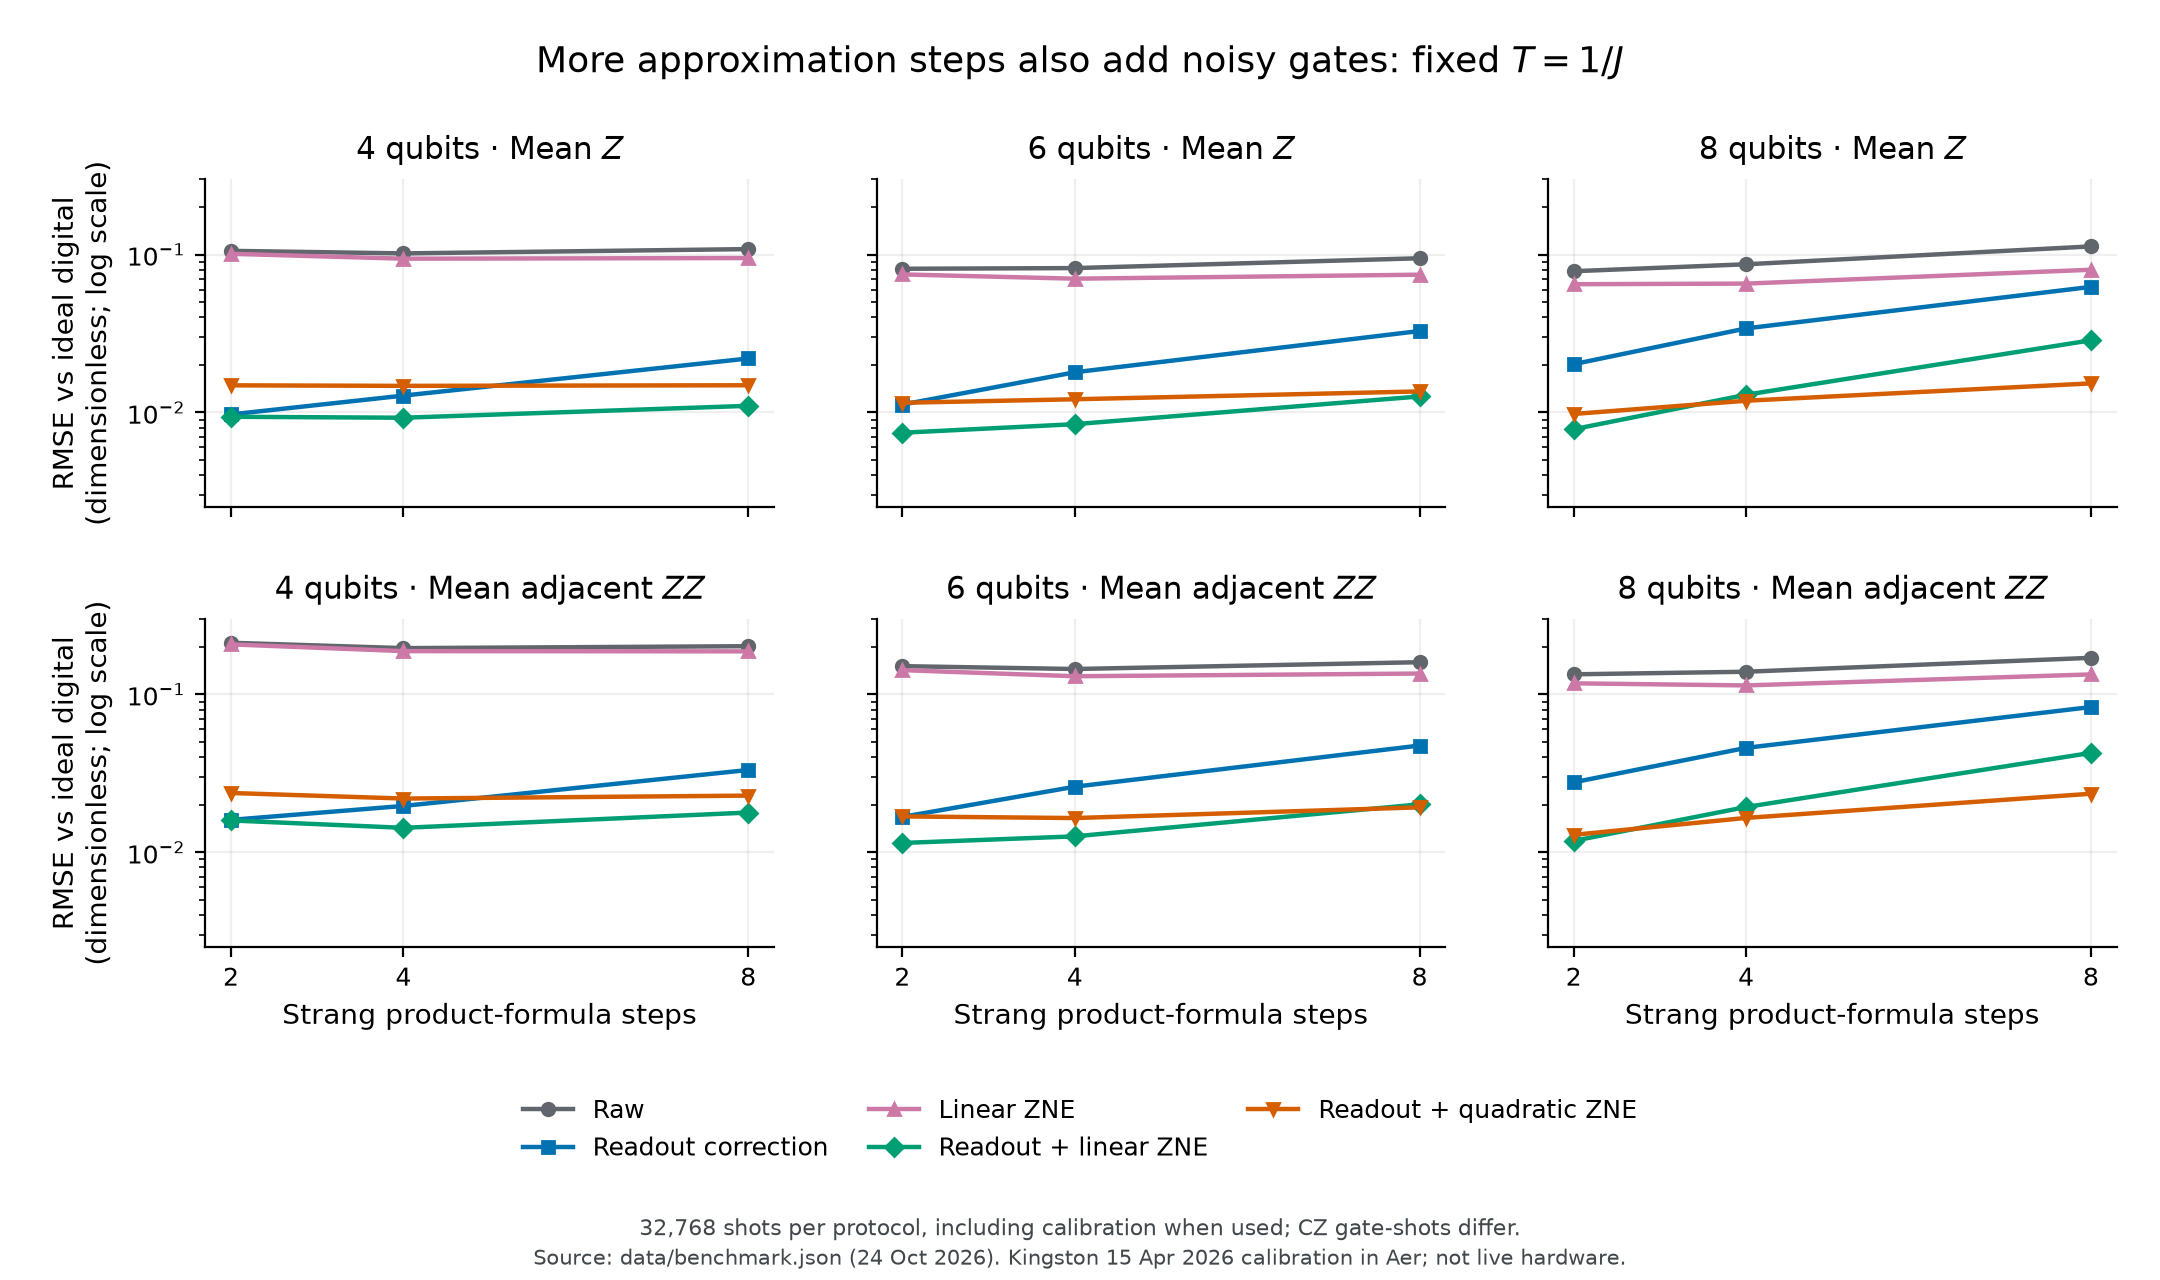
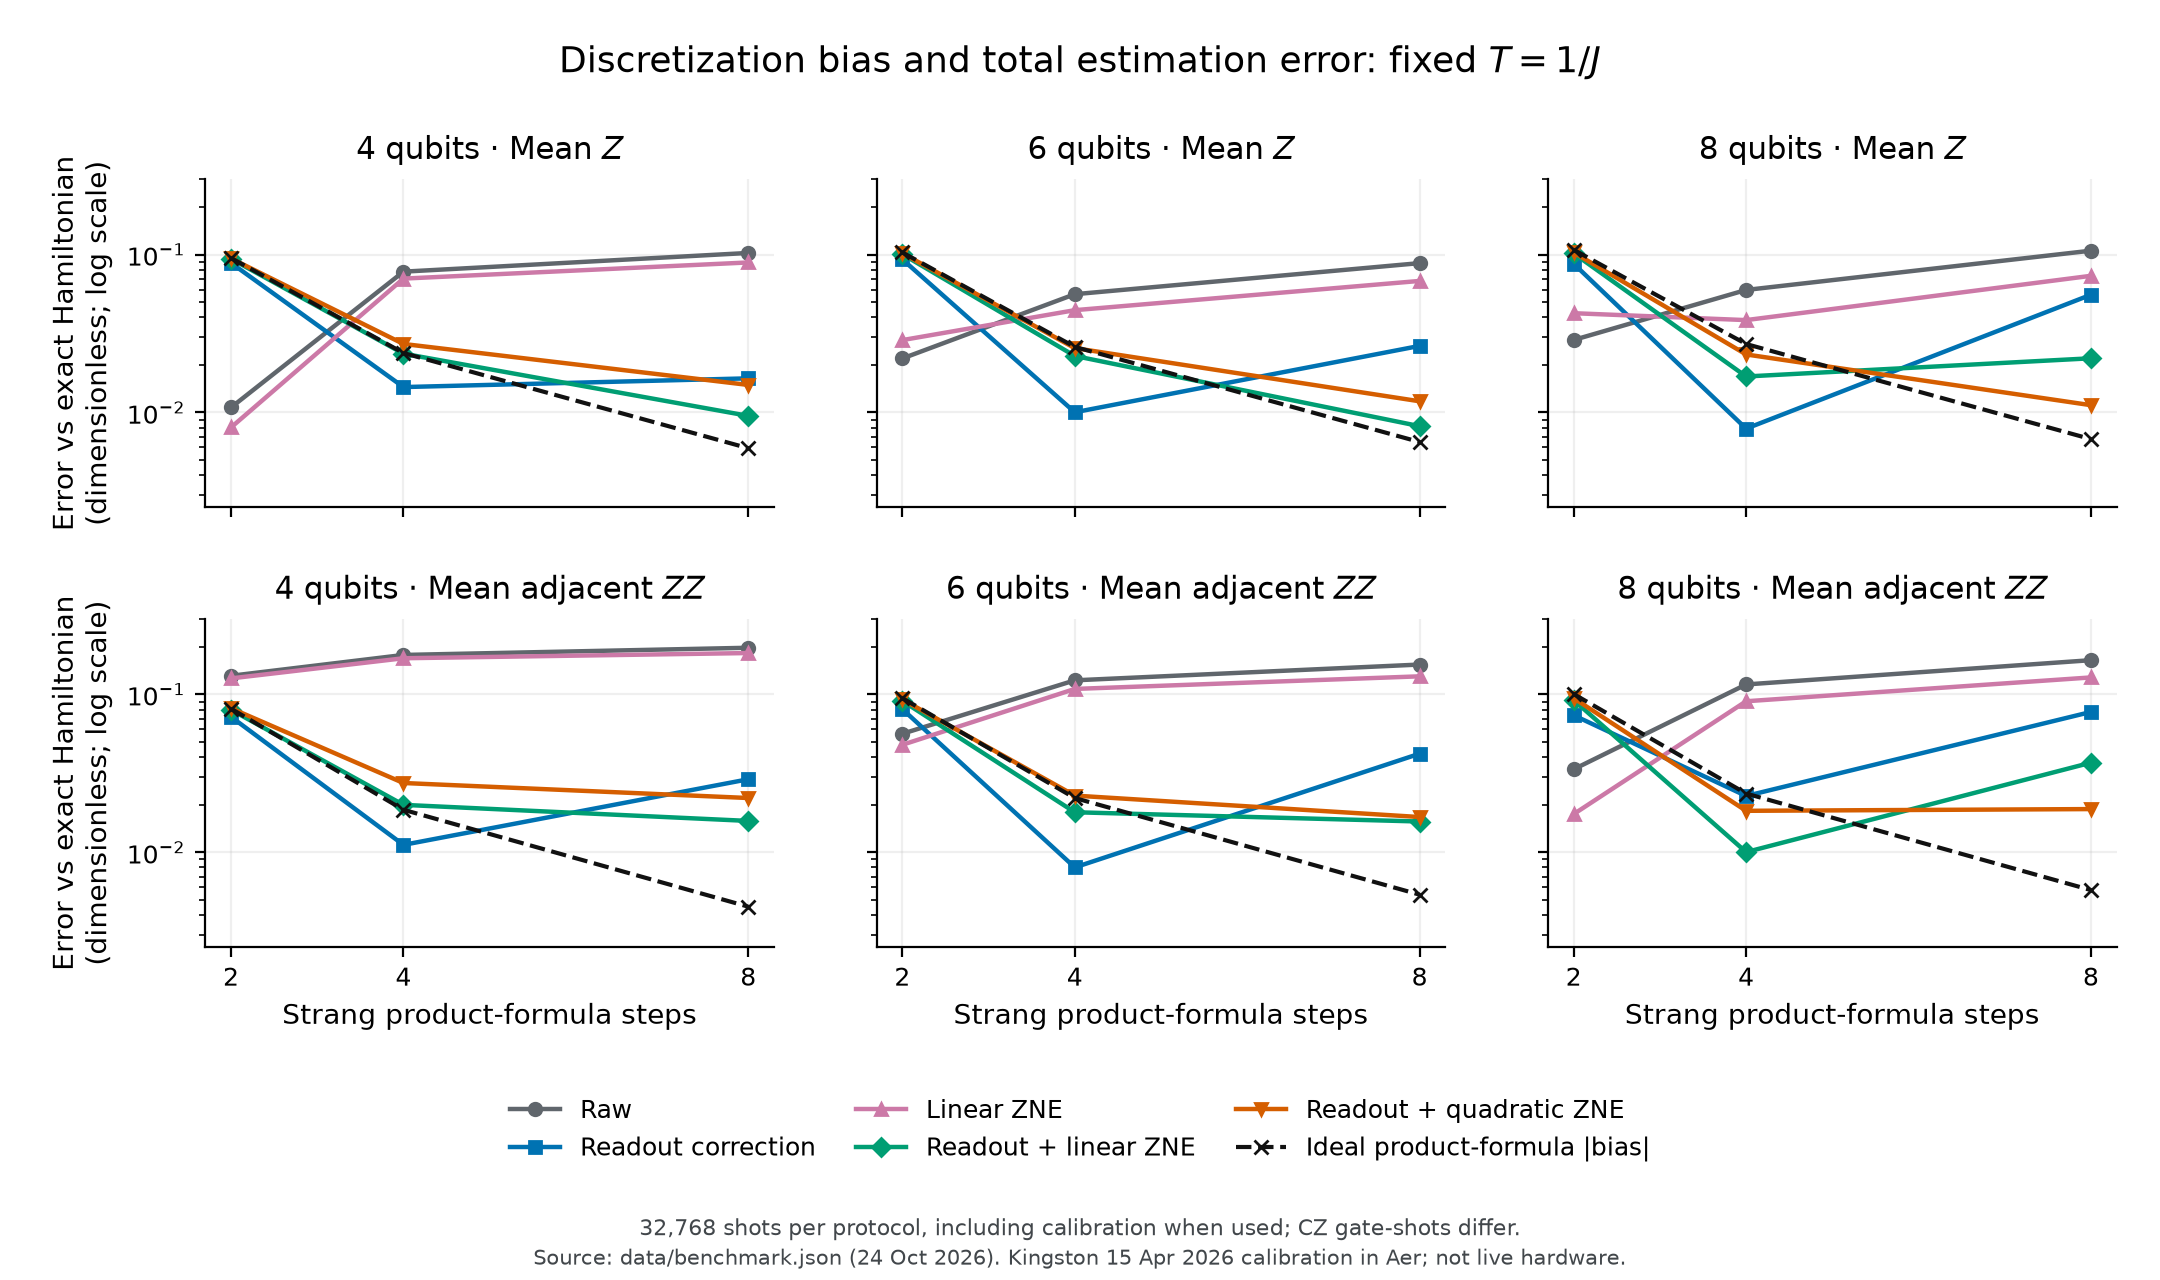
Make the approximation and noise tradeoff visible before review
Use the saved Hamiltonian-target errors and product-formula bias in the depth
figure. Link the supporting figures from the note and clarify the discussion
question. Preserve the existing repository README verbatim while adding a
short scope note, and update stale access wording.

Constraint: No new experiments or numerical-result changes; existing README content retained
Confidence: high
Scope-risk: narrow
Tested: All 36 plotted series match saved data; nine data-file hashes unchanged; three-page PDF inspected; both figure links present
Tested: ZIP checksum validation and repository-payload agreement; git diff --check
Not-tested: Numerical test suites not rerun for presentation-only changes

diff --git a/noisy_qubit_numerics/multiqubit/plot_benchmark.py b/noisy_qubit_numerics/multiqubit/plot_benchmark.py
@@ -106,23 +106,26 @@ def depth(data):
         cases=sorted([c for c in data['cases'] if c['n_qubits']==n and c['time']==1.0],key=lambda x:x['steps'])
         for row,observable in enumerate(('mean_z','mean_neighbor_zz')):
             ax=axes[row,col]
+            outcomes=[next(o for o in c['observables'] if o['observable']==observable) for c in cases]
             for method in data['methods']:
-                ys=[next(o for o in c['observables'] if o['observable']==observable)['methods'][method]['rmse_finite'] for c in cases]
+                ys=[o['methods'][method]['rmse_vs_continuous_finite'] for o in outcomes]
                 ax.plot([c['steps'] for c in cases],ys,color=COLORS[method],marker=MARKERS[method],
                         ms=4.5,lw=1.6,label=LABELS[method])
+            ax.plot([c['steps'] for c in cases],[abs(o['product_formula_bias']) for o in outcomes],
+                    color='#111111',marker='x',ms=5,lw=1.5,ls='--',label='Ideal product-formula |bias|')
             ax.set_yscale('log')
             ax.set_ylim(.0025,.3)
             ax.set_xticks([2,4,8])
             ax.grid(alpha=.2,which='major')
             ax.set_title(f'{n} qubits · {OBS[observable]}',pad=7)
             if col==0:
-                ax.set_ylabel('RMSE vs ideal digital\n(dimensionless; log scale)')
+                ax.set_ylabel('Error vs exact Hamiltonian\n(dimensionless; log scale)')
             if row==1:
                 ax.set_xlabel('Strang product-formula steps')
     handles,labels=axes[0,0].get_legend_handles_labels()
     fig.legend(handles,labels,ncol=3,loc='lower center',bbox_to_anchor=(.5,.075),frameon=False,
                columnspacing=1.6,handlelength=2)
-    fig.suptitle(r'More approximation steps also add noisy gates: fixed $T=1/J$',fontsize=13,y=.965)
+    fig.suptitle(r'Discretization bias and total estimation error: fixed $T=1/J$',fontsize=13,y=.965)
     fig.subplots_adjust(left=.095,right=.98,wspace=.18,hspace=.34,bottom=.26,top=.86)
     footer(fig)
     save(fig,'depth_tradeoff.png')

diff --git a/noisy_qubit_numerics/WRITEUP.md b/noisy_qubit_numerics/WRITEUP.md
@@ -74,7 +74,7 @@ A concrete retained failure is 4 qubits, $T=1$, 4 steps, mean $Z$: combined line
 
 Figure: all 54 comparisons retained; source `multiqubit/data/benchmark.json`, 24 October 2026. Kingston 15 April 2026 calibration in Aer; no live hardware.
 
-`depth_tradeoff.png` compares all five protocols at fixed $T=1/J$: more steps add noisy gates. The CSV retains all 270 rows (bias, both RMSE targets, costs, failures); the NPZ retains every replicate estimate and calibration marginal count.
+[The depth figure](https://github.com/pbathuri/qlpc/blob/main/noisy_qubit_numerics/multiqubit/figures/depth_tradeoff.png) shows Hamiltonian-target RMSE and absolute product-formula bias versus steps at $T=1/J$. The CSV retains all 270 rows (bias, both RMSE targets, costs, failures); the NPZ retains all replicate estimates and calibration marginal counts.
 
 \newpage
 
@@ -90,12 +90,14 @@ Noise mitigation targets the first term. The second is an approximation error, n
 
 I also calculate a diagnostic with CZ errors disabled but one-qubit/readout errors retained. It is **excluded from both fits**. For 8 qubits, $T=1$, 8 steps, mean $Z$, the ideal digital value is $0.63381245$. The CZ-noise-off value after population-level readout correction is $0.62385224$; combined linear and quadratic population intercepts are $0.60541245$ and $0.62126419$. Thus even an accurate extrapolation toward this selective endpoint retains unscaled noise. These population quantities use exact model distributions and effective calibration rates; they are not finite-shot estimates.
 
-Figure `selective_extrapolation.png`: fixed case, no sampling error bars on population means; source `multiqubit/data/benchmark.json`, 24 October 2026. Dated Kingston calibration in Aer, not live hardware.
+[Selective extrapolation figure](https://github.com/pbathuri/qlpc/blob/main/noisy_qubit_numerics/multiqubit/figures/selective_extrapolation.png): population means for the fixed case, without sampling error bars.
+
+Source: `multiqubit/data/benchmark.json`, 24 October 2026; dated Kingston calibration in Aer, not live hardware.
 
 **Verification.** Eighteen multi-qubit tests pass. The remapped 38 quantum channels agree with the source channel matrices within $3.0\times10^{-15}$, and eight readout channels match the directional calibration. All 81 folded ideal states preserve the computation and exact CZ scaling; the largest compiler probability discrepancy is $6.55\times10^{-15}$. Independent Kronecker-Hamiltonian reconstruction agrees with the saved continuous reference within $3.50\times10^{-15}$. A 131,072-shot Aer check validates measurement/readout ordering. Independent recomputation reproduces all 27 cases, replicate estimates and bootstrap summaries. The frozen model, seeds, configuration, tests and verification records are included.
 
 Two implementation details matter numerically. BackendV2's default averaged readout errors are replaced by the snapshot's directional assignment probabilities. Also, equivalent consolidated channel representations avoid Aer truncation of very small probabilistic Kraus branches; channel equality is checked independently. Density-matrix normalization is checked before correcting only floating-point-scale residuals. These checks establish consistency of the implemented model, not fidelity to an actual device.
 
-The model omits a timed idle schedule, crosstalk, correlated readout, leakage, calibration drift and coherent-error characterization beyond the supplied channel construction. Only one snapshot and one path are studied. This is an inspectable small-system benchmark, not a hardware result, a reproduction of IBM's large-scale experiments, or a new mitigation algorithm. Could stability and perturbation estimates for evolving operators guide the joint choice of product-formula resolution and extrapolation order? That is the question I would like to explore; no Evans-function method is claimed to apply here.
+The model omits a timed idle schedule, crosstalk, correlated readout, leakage, calibration drift and coherent-error characterization beyond the supplied channel construction. Only one snapshot and one path are studied. This is an inspectable small-system benchmark, not a hardware result, a reproduction of IBM's large-scale experiments, or a new mitigation algorithm. Can we choose product-formula resolution and extrapolation order using a reliable error estimate, rather than knowing the exact answer? That is the question I would like to explore; no Evans-function method is claimed to apply here.
 
 **References:** [Nation et al., measurement mitigation (2021)](https://arxiv.org/abs/2108.12518); [Majumdar et al., digital ZNE best practices (2023)](https://arxiv.org/abs/2307.05203); [IBM's Ising-model mitigation experiment (2023)](https://www.nature.com/articles/s41586-023-06096-3); [Aer device-noise construction](https://qiskit.github.io/qiskit-aer/stubs/qiskit_aer.noise.NoiseModel.html); [Zumbrun, numerical error analysis (2009)](https://arxiv.org/abs/0904.0268). See `multiqubit/PROTOCOL.md` for the fixed comparison rules.

diff --git a/README.md b/README.md
@@ -62,6 +62,13 @@ the classical cross-check, so results are always honest and verifiable.
 your `captain-whiskers` quantum optimizer + `AutoResearchClaw` qiskit skill). Quantum paths run on
 `qiskit-aer` simulators; scales to ~50–100 assets on near-term hardware.
 
+**Scope clarification:** The earlier 50–100-asset hardware-scaling claim is
+not established by the results in this repository. In my current
+`qlpc/quantum_risk.py`, IQAE estimates a selected-tail probability; the returned
+CVaR is calculated separately from histogram bin centers, and the comparator
+and histogram use different bin widths. I retain this as a prototype; the
+returned CVaR should not be interpreted as an amplitude-estimated value.
+
 ## Noisy-qubit numerical methods
 
 I extended my earlier one-qubit demo into a device-calibrated multi-qubit

diff --git a/noisy_qubit_numerics/PROVENANCE.md b/noisy_qubit_numerics/PROVENANCE.md
@@ -7,7 +7,7 @@ I prepared this example on 24 October 2026.
 I started from my QLPC function `readout_mitigation_demo` in
 [qlpc/mitigation.py](https://github.com/pbathuri/qlpc/blob/63c325baaf22fdcd5c09707963455fa37c78fc15/qlpc/mitigation.py),
 commit `63c325baaf22fdcd5c09707963455fa37c78fc15`.
-The source repository is private; this package is self-contained.
+The source repository is public; this package is also self-contained.
 
 The retained baseline is Ry(1.2), depolarization rho -> 0.98 rho + 0.02 I/2,
 and asymmetric readout errors e0=0.07 and e1=0.12. QLPC called the M3 package.
